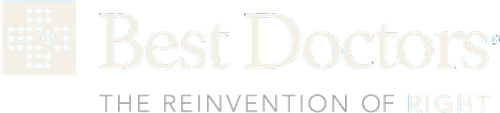
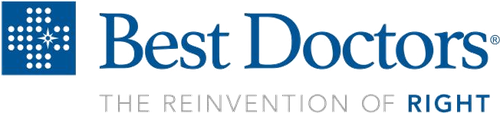
Redesign site with light, editorial theme from brand deck
Flips the color scheme from navy-dominant to cream throughout,
matching the GPS Insurance presentation deck: cream background
site-wide, navy reserved for headings/text, gold as the sole accent
(thin rules, eyebrows, bullets). Adds the circular "G" compass mark
next to the wordmark in the nav, matching the deck's corner emblem.

Reprocessed the 7 operator logos that had been recolored for the
old dark cards (VUMI, Bupa, Best Doctors, OMINT, Care Plus,
Einstein, SulAmérica) back to their original ink colors, since
they're now legible on the light background without any tinting.

Replaced the navy "featured" comparison card and ICP cards with
light variants (white fill + thin gold/navy border) instead of a
solid dark fill, consistent with the rest of the page.

Changed region(s): [[0.18, 0.1062, 1.0, 0.6372], [0.0, 0.0, 0.15, 0.6903], [0.81, 0.823, 0.99, 1.0]]

diff --git a/index.html b/index.html
@@ -22,8 +22,8 @@
   *{box-sizing:border-box; margin:0; padding:0;}
   html{scroll-behavior:smooth;}
   body{
-    background:var(--navy);
-    color:var(--cream);
+    background:var(--cream);
+    color:var(--navy);
     font-family:'Inter',sans-serif;
     font-weight:400;
     line-height:1.6;
@@ -72,13 +72,33 @@
   /* ---------- NAV ---------- */
   nav{
     position:fixed; top:0; left:0; right:0; z-index:50;
-    background:rgba(21,28,46,0.86);
+    background:rgba(245,240,230,0.86);
     backdrop-filter:blur(10px);
-    border-bottom:1px solid rgba(176,141,76,0.18);
+    border-bottom:1px solid rgba(176,141,76,0.22);
   }
   .nav-inner{
     max-width:1180px; margin:0 auto; padding:18px 8%;
     display:flex; align-items:center; justify-content:space-between;
+  }
+  .brand-lockup{display:flex; align-items:center; gap:12px;}
+  .brand-mark{
+    position:relative;
+    width:32px; height:32px;
+    border:1px solid var(--navy);
+    border-radius:50%;
+    display:flex; align-items:center; justify-content:center;
+    font-family:'Playfair Display',serif;
+    font-weight:600;
+    font-size:15px;
+    color:var(--navy);
+    flex-shrink:0;
+  }
+  .brand-mark::before{
+    content:"";
+    position:absolute; top:-4px; left:50%; transform:translateX(-50%);
+    border-left:3px solid transparent;
+    border-right:3px solid transparent;
+    border-bottom:5px solid var(--navy);
   }
   .brand-wordmark{
     font-family:'Playfair Display',serif;
@@ -87,12 +107,12 @@
   }
   .brand-wordmark span.ins{
     font-family:'Inter',sans-serif; font-weight:500;
-    font-size:11px; letter-spacing:0.28em; color:var(--graphite);
+    font-size:11px; letter-spacing:0.28em; color:var(--graphite-on-cream);
     text-transform:uppercase; padding-left:10px; border-left:1px solid var(--gold);
   }
   .nav-cta{
     border:1px solid var(--gold);
-    color:var(--cream);
+    color:var(--navy);
     font-size:13px; font-weight:500;
     padding:10px 22px;
     border-radius:2px;
@@ -106,7 +126,7 @@
     position:relative;
     padding:168px 0 120px;
     overflow:hidden;
-    background:#FFFFFF;
+    background:var(--cream);
     color:var(--navy);
   }
   .compass-line{
@@ -156,7 +176,7 @@
     box-shadow:0 0 0 rgba(176,141,76,0);
   }
   .btn-primary:hover{transform:translateY(-2px); box-shadow:0 10px 26px -8px rgba(176,141,76,0.45);}
-  .cta-note{font-size:12.5px; color:var(--graphite);}
+  .cta-note{font-size:12.5px; color:var(--graphite-on-cream);}
   .hero-emblem{
     position:relative;
     display:flex; justify-content:center; align-items:center;
@@ -181,7 +201,7 @@
     gap:52px;
     align-items:start;
   }
-  .problem-grid p{font-size:16.5px; color:var(--graphite); max-width:52ch;}
+  .problem-grid p{font-size:16.5px; color:var(--graphite-on-cream); max-width:52ch;}
   .quote-block{
     border-left:2px solid var(--gold);
     padding-left:26px;
@@ -189,7 +209,7 @@
     font-style:italic;
     font-size:22px;
     line-height:1.5;
-    color:var(--cream);
+    color:var(--navy);
   }
 
   /* ---------- COMPARATIVO ---------- */
@@ -204,23 +224,18 @@
     background:var(--cream);
     padding:44px 40px;
   }
-  .compare-card.dark{
-    background:var(--navy);
-    color:var(--cream);
+  .compare-card.featured{
+    background:#FFFFFF;
+    box-shadow:inset 0 0 0 1px var(--gold-soft);
   }
   .compare-card h3{font-size:22px; margin-bottom:22px; color:var(--navy);}
-  .compare-card.dark h3{color:var(--cream);}
   .compare-card ul{list-style:none;}
   .compare-card li{
     font-size:14.5px;
     padding:11px 0;
-    border-bottom:1px solid rgba(90,90,90,0.14);
+    border-bottom:1px solid rgba(21,28,46,0.1);
     display:flex; gap:10px;
     color:var(--graphite-on-cream);
-  }
-  .compare-card.dark li{
-    border-bottom:1px solid rgba(245,240,230,0.1);
-    color:var(--graphite);
   }
   .compare-card li::before{content:"—"; color:var(--gold); flex-shrink:0;}
   .compare-card li:last-child{border-bottom:none;}
@@ -234,7 +249,7 @@
     border:1px solid rgba(176,141,76,0.15);
   }
   .operator{
-    background:var(--navy);
+    background:var(--cream);
     padding:30px 26px;
   }
   .operator .logo{
@@ -250,11 +265,11 @@
     object-fit:contain;
     display:block;
   }
-  .operator .desc{font-size:13px; color:var(--graphite); line-height:1.55;}
+  .operator .desc{font-size:13px; color:var(--graphite-on-cream); line-height:1.55;}
   .verify-note{
     margin-top:26px;
     font-size:11.5px;
-    color:var(--graphite);
+    color:var(--graphite-on-cream);
     letter-spacing:0.02em;
   }
   .verify-note .tag{
@@ -270,8 +285,8 @@
     gap:28px;
   }
   .icp-card{
-    background:var(--navy-panel);
-    border:1px solid rgba(176,141,76,0.16);
+    background:#FFFFFF;
+    border:1px solid rgba(176,141,76,0.25);
     padding:38px 32px;
     border-radius:2px;
   }
@@ -283,8 +298,8 @@
     margin-bottom:20px;
     display:block;
   }
-  .icp-card h3{font-size:20px; margin-bottom:14px; color:var(--cream);}
-  .icp-card p{font-size:14px; color:var(--graphite); margin-bottom:0;}
+  .icp-card h3{font-size:20px; margin-bottom:14px; color:var(--navy);}
+  .icp-card p{font-size:14px; color:var(--graphite-on-cream); margin-bottom:0;}
 
   /* ---------- PROCESSO (signature: linha de rota) ---------- */
   .process{position:relative;}
@@ -309,14 +324,14 @@
     width:9px; height:9px;
     border-radius:50%;
     background:var(--gold);
-    box-shadow:0 0 0 4px var(--navy), 0 0 0 5px rgba(176,141,76,0.3);
+    box-shadow:0 0 0 4px var(--cream), 0 0 0 5px rgba(176,141,76,0.3);
   }
   .process-step .step-label{
     font-size:11px; letter-spacing:0.18em; text-transform:uppercase;
     color:var(--gold); margin-bottom:8px; display:block;
   }
   .process-step h3{font-size:20px; margin-bottom:8px;}
-  .process-step p{font-size:14.5px; color:var(--graphite); max-width:48ch;}
+  .process-step p{font-size:14.5px; color:var(--graphite-on-cream); max-width:48ch;}
 
   /* ---------- FINAL CTA ---------- */
   .final-cta{
@@ -330,7 +345,7 @@
     margin:20px auto 20px;
   }
   .final-cta p{
-    color:var(--graphite);
+    color:var(--graphite-on-cream);
     max-width:44ch;
     margin:0 auto 40px;
     font-size:16px;
@@ -347,7 +362,7 @@
     display:flex; justify-content:space-between; align-items:center;
     flex-wrap:wrap; gap:16px;
   }
-  footer p{font-size:12px; color:var(--graphite);}
+  footer p{font-size:12px; color:var(--graphite-on-cream);}
 
   @media (max-width:860px){
     .hero-grid{grid-template-columns:1fr; text-align:left;}
@@ -366,7 +381,10 @@
 
 <nav>
   <div class="nav-inner">
-    <div class="brand-wordmark">GPS<span class="ins">Insurance</span></div>
+    <div class="brand-lockup">
+      <div class="brand-mark" aria-hidden="true">G</div>
+      <div class="brand-wordmark">GPS<span class="ins">Insurance</span></div>
+    </div>
     <a class="nav-cta" href="https://wa.me/message/2B52Z33I74PHA1" target="_blank" rel="noopener">Falar com especialista</a>
   </div>
 </nav>
@@ -417,7 +435,7 @@
           <li>Reembolso internacional, quando existe, costuma ser parcial</li>
         </ul>
       </div>
-      <div class="compare-card dark">
+      <div class="compare-card featured">
         <h3>Plano de Saúde Internacional</h3>
         <ul>
           <li>Acesso a centros médicos de referência fora do país</li>
